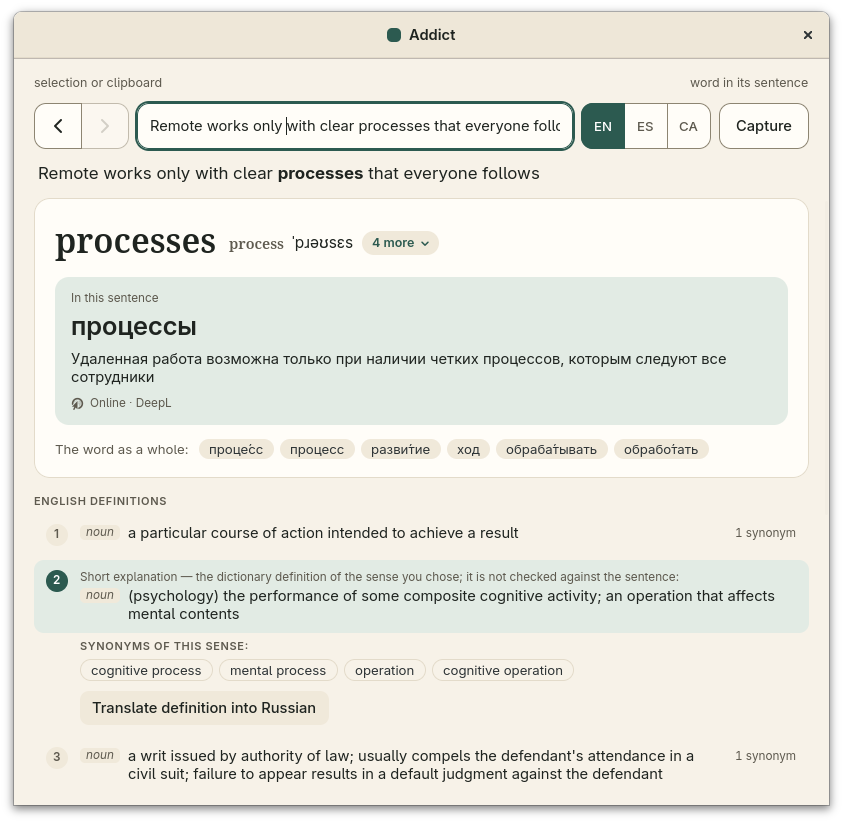
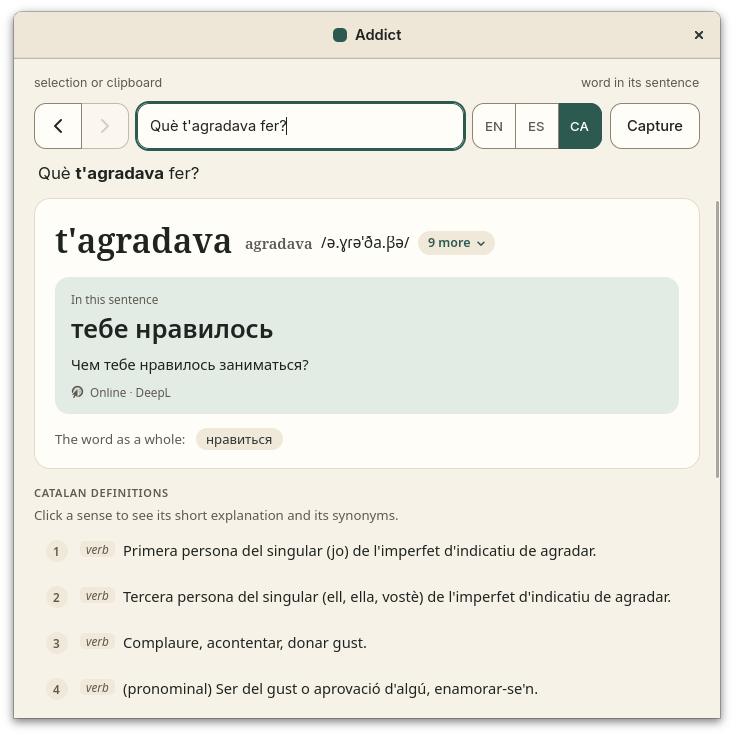
docs: show a Catalan word in the screenshot
The new screenshot shows the article of the Catalan word t'agradava, so
the README alt text, the MetaInfo caption and the REUSE credits now name
the Catalan sources (DBnary, WikDict ca-ru) instead of the English ones.

Claude-Session: https://claude.ai/code/session_01RAXbcT52NbzBHTrzUQsG93

Changed region(s): [[0.0, 0.0, 0.9891, 0.9878]]

diff --git a/README.md b/README.md
@@ -8,7 +8,7 @@ a sentence and DeepL translates the word in that sentence, and the sentence
 itself, into Russian. Text that cannot be selected, such as an image or a
 video, can be captured from the screen and read with Tesseract OCR.
 
-![The addict window with the article of an English word](docs/screenshot.png)
+![The addict window with the article of a Catalan word](docs/screenshot.png)
 
 ## Features
 
